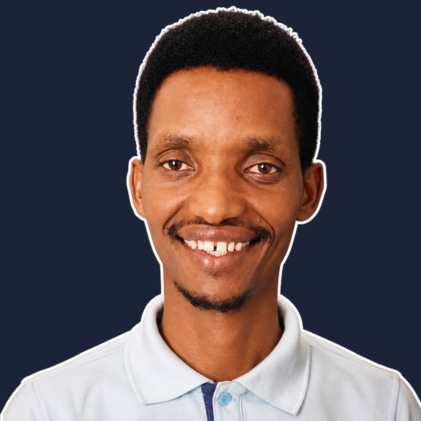
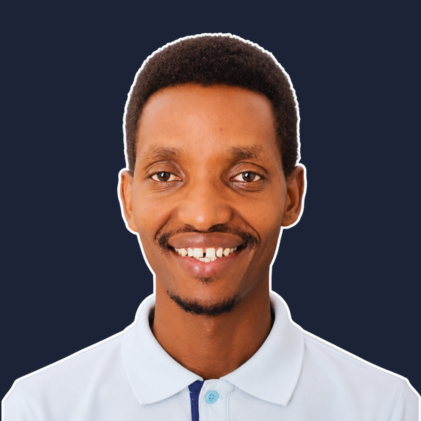
feedback54

diff --git a/index.html b/index.html
@@ -817,8 +817,8 @@
 						</div>
 						<div class="lower-content">
 							<div class="d-flex align-items-center flex-wrap">
-								<div class="post-date">20 December 2025</div>
-								<div class="comment">10 Comment</div>
+								<div class="post-date">9 June 2026</div>
+								<div class="comment">02 Comment</div>
 							</div>
 							<h4><a href="blog-detail.html">Quarterly team building, fun activities</a></h4>
 							<div class="d-flex align-items-center">
@@ -845,9 +845,9 @@
 						<div class="lower-content">
 							<div class="d-flex align-items-center flex-wrap">
 								<div class="post-date">10 May 2026</div>
-								<div class="comment">07 Comment</div>
+								<div class="comment">02 Comment</div>
 							</div>
-							<h4><a href="blog2.html"> The 2026 VOOReeld Election</a></h4>
+							<h4><a href="blog2.html"> The 2026 VOORbeeld Election</a></h4>
 							<div class="d-flex align-items-center">
 								<a class="read-more theme-btn" href="blog2.html">Read More</a>
 								<div class="author">
@@ -871,8 +871,8 @@
 						</div>
 						<div class="lower-content">
 							<div class="d-flex align-items-center flex-wrap">
-								<div class="post-date">20 March 2026</div>
-								<div class="comment">09 Comment</div>
+								<div class="post-date">20 February 2026</div>
+								<div class="comment">02 Comment</div>
 							</div>
 							<h4><a href="blog3.html">Entrepreneurship and Sustainability</a></h4>
 							<div class="d-flex align-items-center">
@@ -1040,7 +1040,7 @@
                                 <div class="footer-widget links-widget">
 									<h4>Company Address</h4>
 									<ul class="address-list">
-										<li><span class="icon flaticon-location"></span>The Hangout, plot 2 Nalufenya Rd, Jinja</li>
+										<li><span class="icon flaticon-location"></span>The Hangout, plot 2 Nalufenya Rd,&nbsp;Jinja</li>
 										<li><span class="icon flaticon-phone-call"></span>+256 743 564 811 <br>+256 785 505 742</li>
 										<li><span class="icon flaticon-email-1"></span>matthijs@ncbs.io</li>
 									</ul>

diff --git a/about.html b/about.html
@@ -450,7 +450,7 @@ Our team evaluates candidates based on their technical capabilities, intellect, 
 							</div>
 						</div>
 						<div class="content">
-							<div class="title">Education and Community</div>
+							<div class="title">Education & Community</div>
 							<h4><a href="team-detail13.html">Phiona Nakadama</a></h4>
 						</div>
 					</div>
@@ -620,7 +620,7 @@ Our team evaluates candidates based on their technical capabilities, intellect, 
                                 <div class="footer-widget links-widget">
 									<h4>Company Address</h4>
 									<ul class="address-list">
-										<li><span class="icon flaticon-location"></span>The Hangout, plot 2 Nalufenya Rd, Jinja</li>
+										<li><span class="icon flaticon-location"></span>The Hangout, plot 2 Nalufenya Rd,&nbsp;Jinja</li>
 										<li><span class="icon flaticon-phone-call"></span>+256 743 564 811 <br>+256 785 505 742</li>
 										<li><span class="icon flaticon-email-1"></span>matthijs@ncbs.io</li>
 									</ul>

diff --git a/blog.html b/blog.html
@@ -231,7 +231,7 @@
 								<div class="post-date">10 May 2026</div>
 								<div class="comment">02 Comments</div>
 							</div>
-							<h4><a href="blog2.html"> The 2026 VOOReeld Election</a></h4>
+							<h4><a href="blog2.html"> The 2026 VOORbeeld Election</a></h4>
 							<div class="d-flex align-items-center">
 								<a class="read-more theme-btn" href="blog2.html">Read More</a>
 								<div class="author">
@@ -444,7 +444,7 @@
                                 <div class="footer-widget links-widget">
 									<h4>Company Address</h4>
 									<ul class="address-list">
-										<li><span class="icon flaticon-location"></span>The Hangout, plot 2 Nalufenya Rd, Jinja</li>
+										<li><span class="icon flaticon-location"></span>The Hangout, plot 2 Nalufenya Rd,&nbsp;Jinja</li>
 										<li><span class="icon flaticon-phone-call"></span>+256 743 564 811 <br>+256 785 505 742</li>
 										<li><span class="icon flaticon-email-1"></span>matthijs@ncbs.io</li>
 									</ul>

diff --git a/contact.html b/contact.html
@@ -197,7 +197,7 @@
 						<div class="inner-column">
 							<span class="icon flaticon-location"></span>
 							<h4>Address</h4>
-							<div class="text">The Hangout, <br>Plot 2 Nalufenya Rd, Jinja</div>
+							<div class="text">The Hangout, <br>Plot 2 Nalufenya Rd,&nbsp;Jinja</div>
 						</div>
 					</div>
 					
@@ -331,7 +331,7 @@
                                 <div class="footer-widget links-widget">
 									<h4>Company Address</h4>
 									<ul class="address-list">
-										<li><span class="icon flaticon-location"></span>The Hangout, plot 2 Nalufenya Rd, Jinja</li>
+										<li><span class="icon flaticon-location"></span>The Hangout, plot 2 Nalufenya Rd,&nbsp;Jinja</li>
 										<li><span class="icon flaticon-phone-call"></span>+256 743 564 811 <br>+256 785 505 742</li>
 										<li><span class="icon flaticon-email-1"></span>matthijs@ncbs.io</li>
 									</ul>

diff --git a/blog1.html b/blog1.html
@@ -450,7 +450,7 @@ Recently, we took time out as a team for a team building experience, stepping aw
                                 <div class="footer-widget links-widget">
 									<h4>Company Address</h4>
 									<ul class="address-list">
-										<li><span class="icon flaticon-location"></span>The Hangout, plot 2 Nalufenya Rd, Jinja</li>
+										<li><span class="icon flaticon-location"></span>The Hangout, plot 2 Nalufenya Rd,&nbsp;Jinja</li>
 										<li><span class="icon flaticon-phone-call"></span>+256 743 564 811 <br>+256 785 505 742</li>
 										<li><span class="icon flaticon-email-1"></span>matthijs@ncbs.io</li>
 									</ul>

diff --git a/blog3.html b/blog3.html
@@ -451,7 +451,7 @@ Partner with Nile Centre Business Support to bring global expertise and innovati
                                 <div class="footer-widget links-widget">
 									<h4>Company Address</h4>
 									<ul class="address-list">
-										<li><span class="icon flaticon-location"></span>The Hangout, plot 2 Nalufenya Rd, Jinja</li>
+										<li><span class="icon flaticon-location"></span>The Hangout, plot 2 Nalufenya Rd,&nbsp;Jinja</li>
 										<li><span class="icon flaticon-phone-call"></span>+256 743 564 811 <br>+256 785 505 742</li>
 										<li><span class="icon flaticon-email-1"></span>matthijs@ncbs.io</li>
 									</ul>

diff --git a/team-detail10.html b/team-detail10.html
@@ -307,7 +307,7 @@ I am a Sticky Problem Solver—a specialistic generalist who thrives where Finan
                                 <div class="footer-widget links-widget">
 									<h4>Company Address</h4>
 									<ul class="address-list">
-										<li><span class="icon flaticon-location"></span>The Hangout, plot 2 Nalufenya Rd, Jinja</li>
+										<li><span class="icon flaticon-location"></span>The Hangout, plot 2 Nalufenya Rd,&nbsp;Jinja</li>
 										<li><span class="icon flaticon-phone-call"></span>+256 743 564 811 <br>+256 785 505 742</li>
 										<li><span class="icon flaticon-email-1"></span>matthijs@ncbs.io</li>
 									</ul>

diff --git a/team-detail5.html b/team-detail5.html
@@ -304,7 +304,7 @@ Did this passion for technology appear overnight? Certainly not. From childhood 
                                 <div class="footer-widget links-widget">
 									<h4>Company Address</h4>
 									<ul class="address-list">
-										<li><span class="icon flaticon-location"></span>The Hangout, plot 2 Nalufenya Rd, Jinja</li>
+										<li><span class="icon flaticon-location"></span>The Hangout, plot 2 Nalufenya Rd,&nbsp;Jinja</li>
 										<li><span class="icon flaticon-phone-call"></span>+256 743 564 811 <br>+256 785 505 742</li>
 										<li><span class="icon flaticon-email-1"></span>matthijs@ncbs.io</li>
 									</ul>

diff --git a/team-detail2.html b/team-detail2.html
@@ -310,7 +310,7 @@ My journey is exactly why Nile Centre Business Support exists:<br>
                                 <div class="footer-widget links-widget">
 									<h4>Company Address</h4>
 									<ul class="address-list">
-										<li><span class="icon flaticon-location"></span>The Hangout, plot 2 Nalufenya Rd, Jinja</li>
+										<li><span class="icon flaticon-location"></span>The Hangout, plot 2 Nalufenya Rd,&nbsp;Jinja</li>
 										<li><span class="icon flaticon-phone-call"></span>+256 743 564 811 <br>+256 785 505 742</li>
 										<li><span class="icon flaticon-email-1"></span>matthijs@ncbs.io</li>
 									</ul>

diff --git a/team-detail4.html b/team-detail4.html
@@ -316,7 +316,7 @@ My focus is on:<br>
                                 <div class="footer-widget links-widget">
 									<h4>Company Address</h4>
 									<ul class="address-list">
-										<li><span class="icon flaticon-location"></span>The Hangout, plot 2 Nalufenya Rd, Jinja</li>
+										<li><span class="icon flaticon-location"></span>The Hangout, plot 2 Nalufenya Rd,&nbsp;Jinja</li>
 										<li><span class="icon flaticon-phone-call"></span>+256 743 564 811 <br>+256 785 505 742</li>
 										<li><span class="icon flaticon-email-1"></span>matthijs@ncbs.io</li>
 									</ul>

diff --git a/accounting.html b/accounting.html
@@ -355,7 +355,7 @@
                                 <div class="footer-widget links-widget">
 									<h4>Company Address</h4>
 									<ul class="address-list">
-										<li><span class="icon flaticon-location"></span>The Hangout, plot 2 Nalufenya Rd, Jinja</li>
+										<li><span class="icon flaticon-location"></span>The Hangout, plot 2 Nalufenya Rd,&nbsp;Jinja</li>
 										<li><span class="icon flaticon-phone-call"></span>+256 743 564 811 <br>+256 785 505 742</li>
 										<li><span class="icon flaticon-email-1"></span>matthijs@ncbs.io</li>
 									</ul>

diff --git a/african.html b/african.html
@@ -342,7 +342,7 @@
                                 <div class="footer-widget links-widget">
 									<h4>Company Address</h4>
 									<ul class="address-list">
-										<li><span class="icon flaticon-location"></span>The Hangout, plot 2 Nalufenya Rd, Jinja</li>
+										<li><span class="icon flaticon-location"></span>The Hangout, plot 2 Nalufenya Rd,&nbsp;Jinja</li>
 										<li><span class="icon flaticon-phone-call"></span>+256 743 564 811 <br>+256 785 505 742</li>
 										<li><span class="icon flaticon-email-1"></span>matthijs@ncbs.io</li>
 									</ul>
